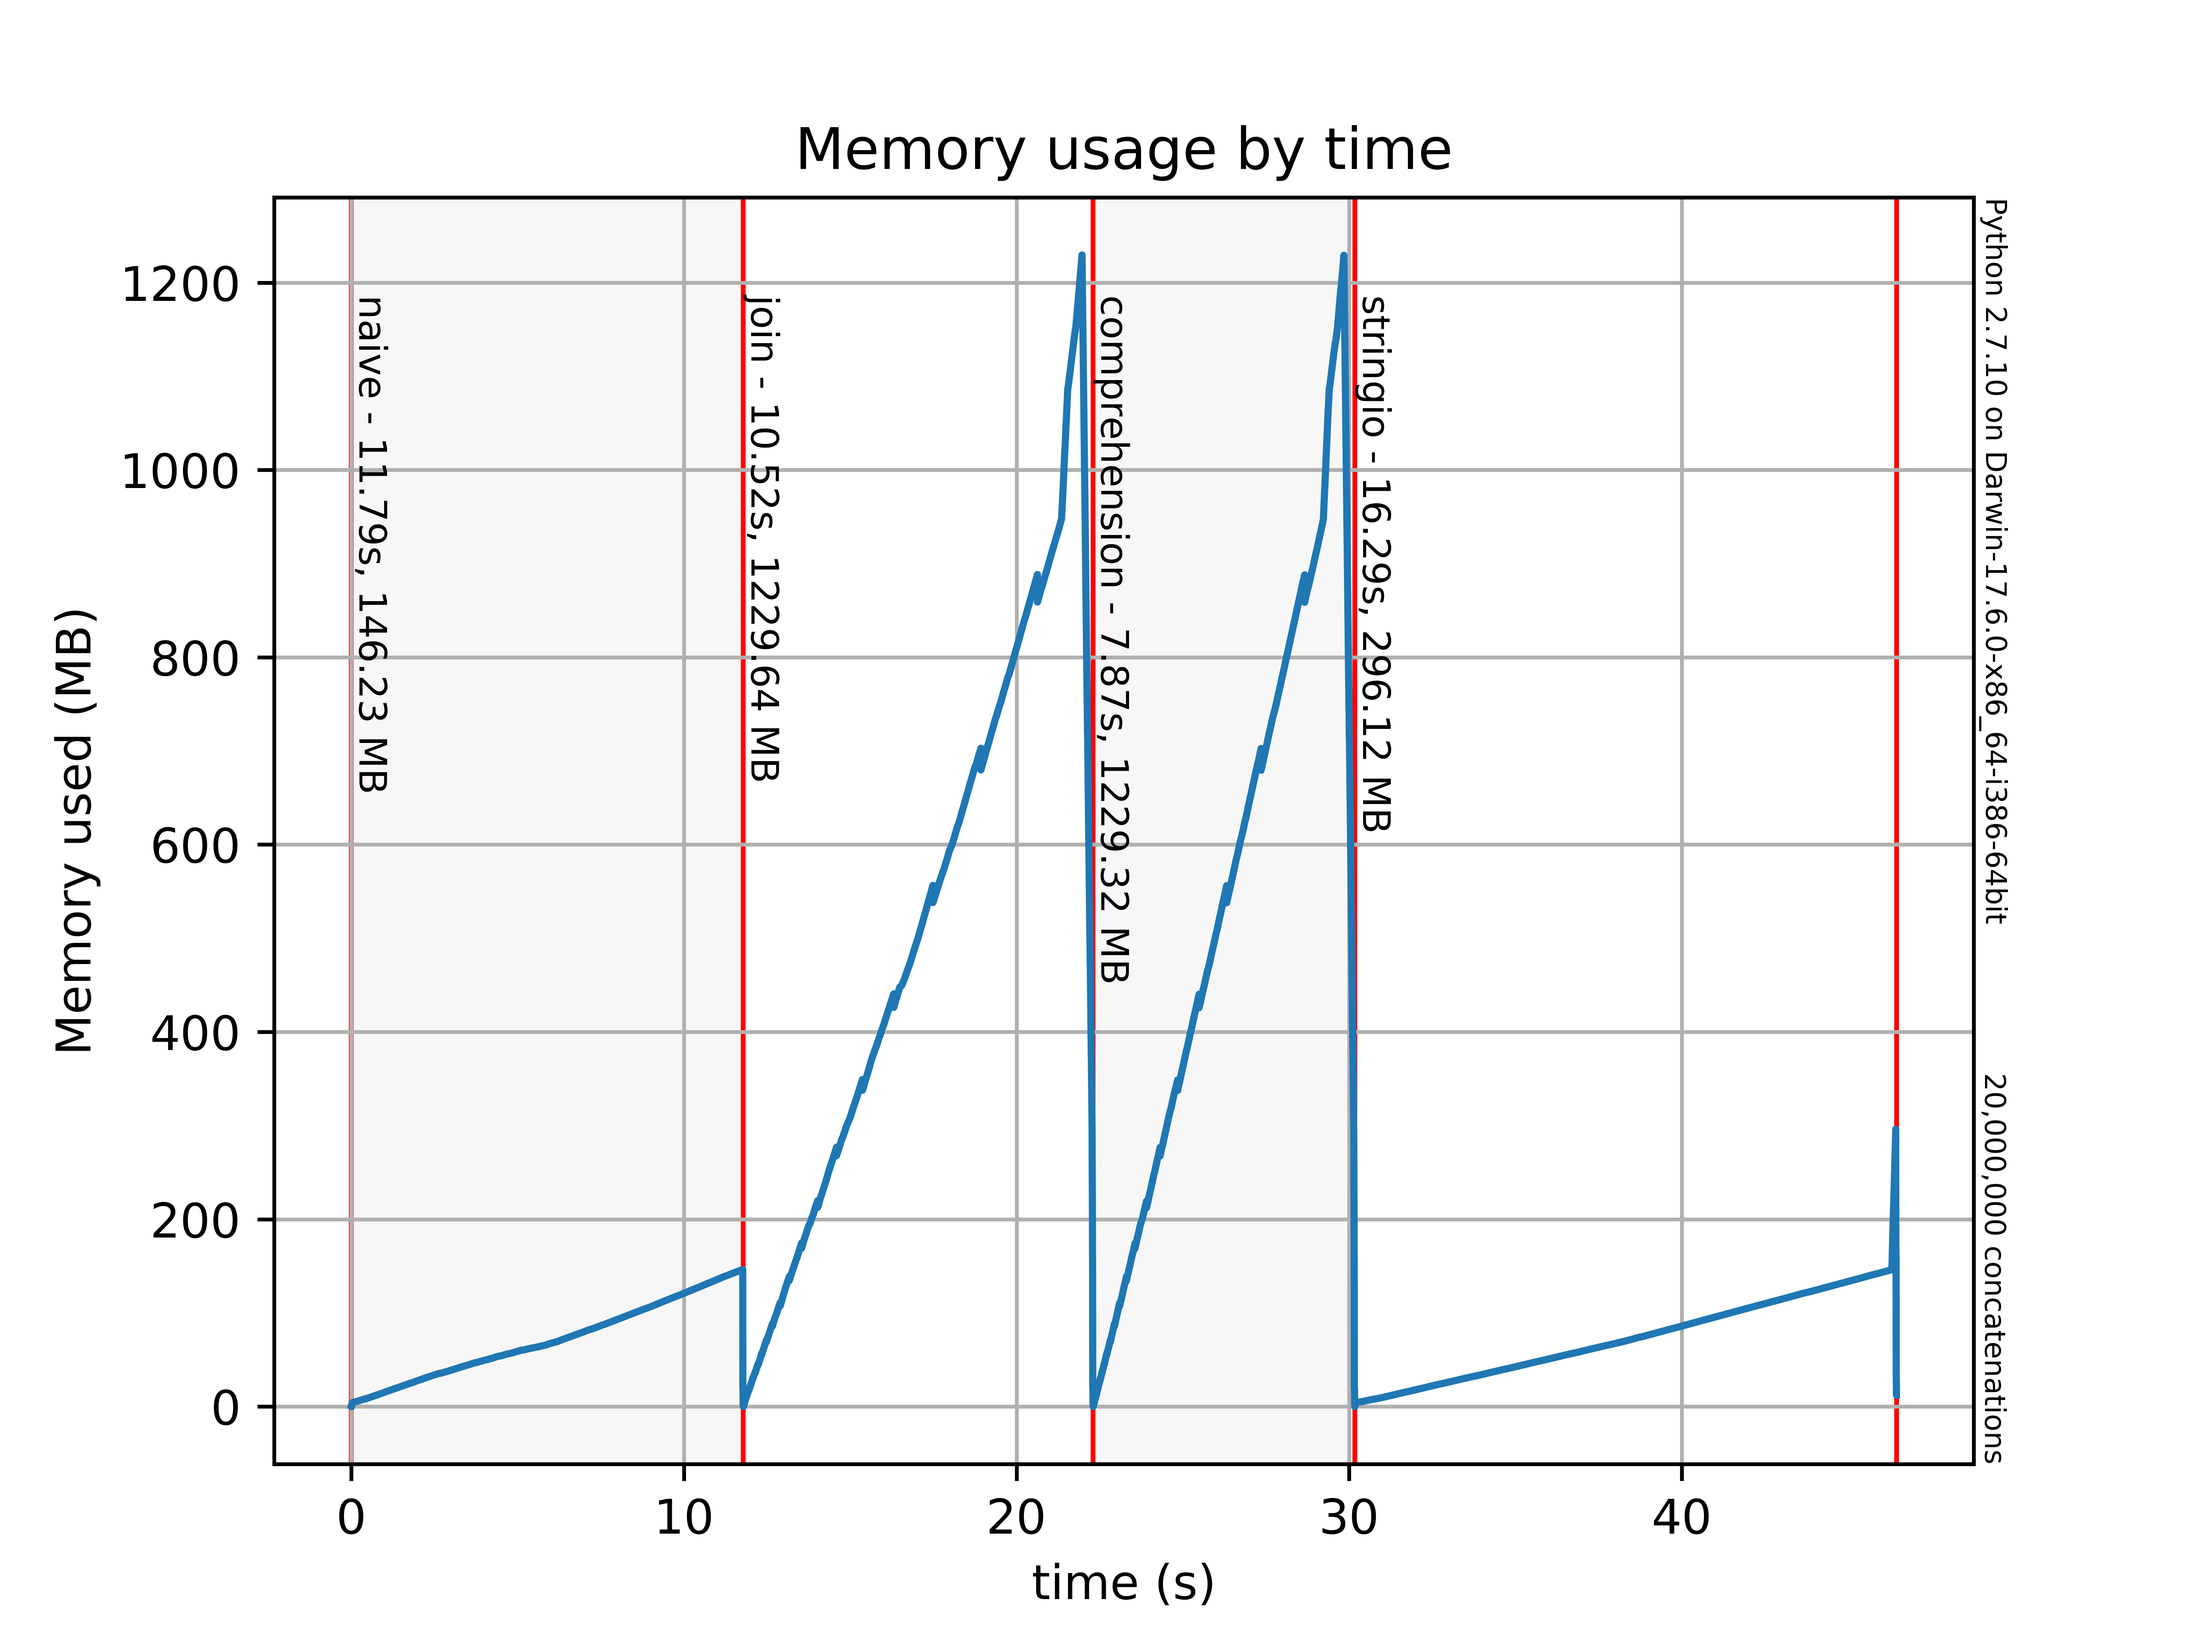
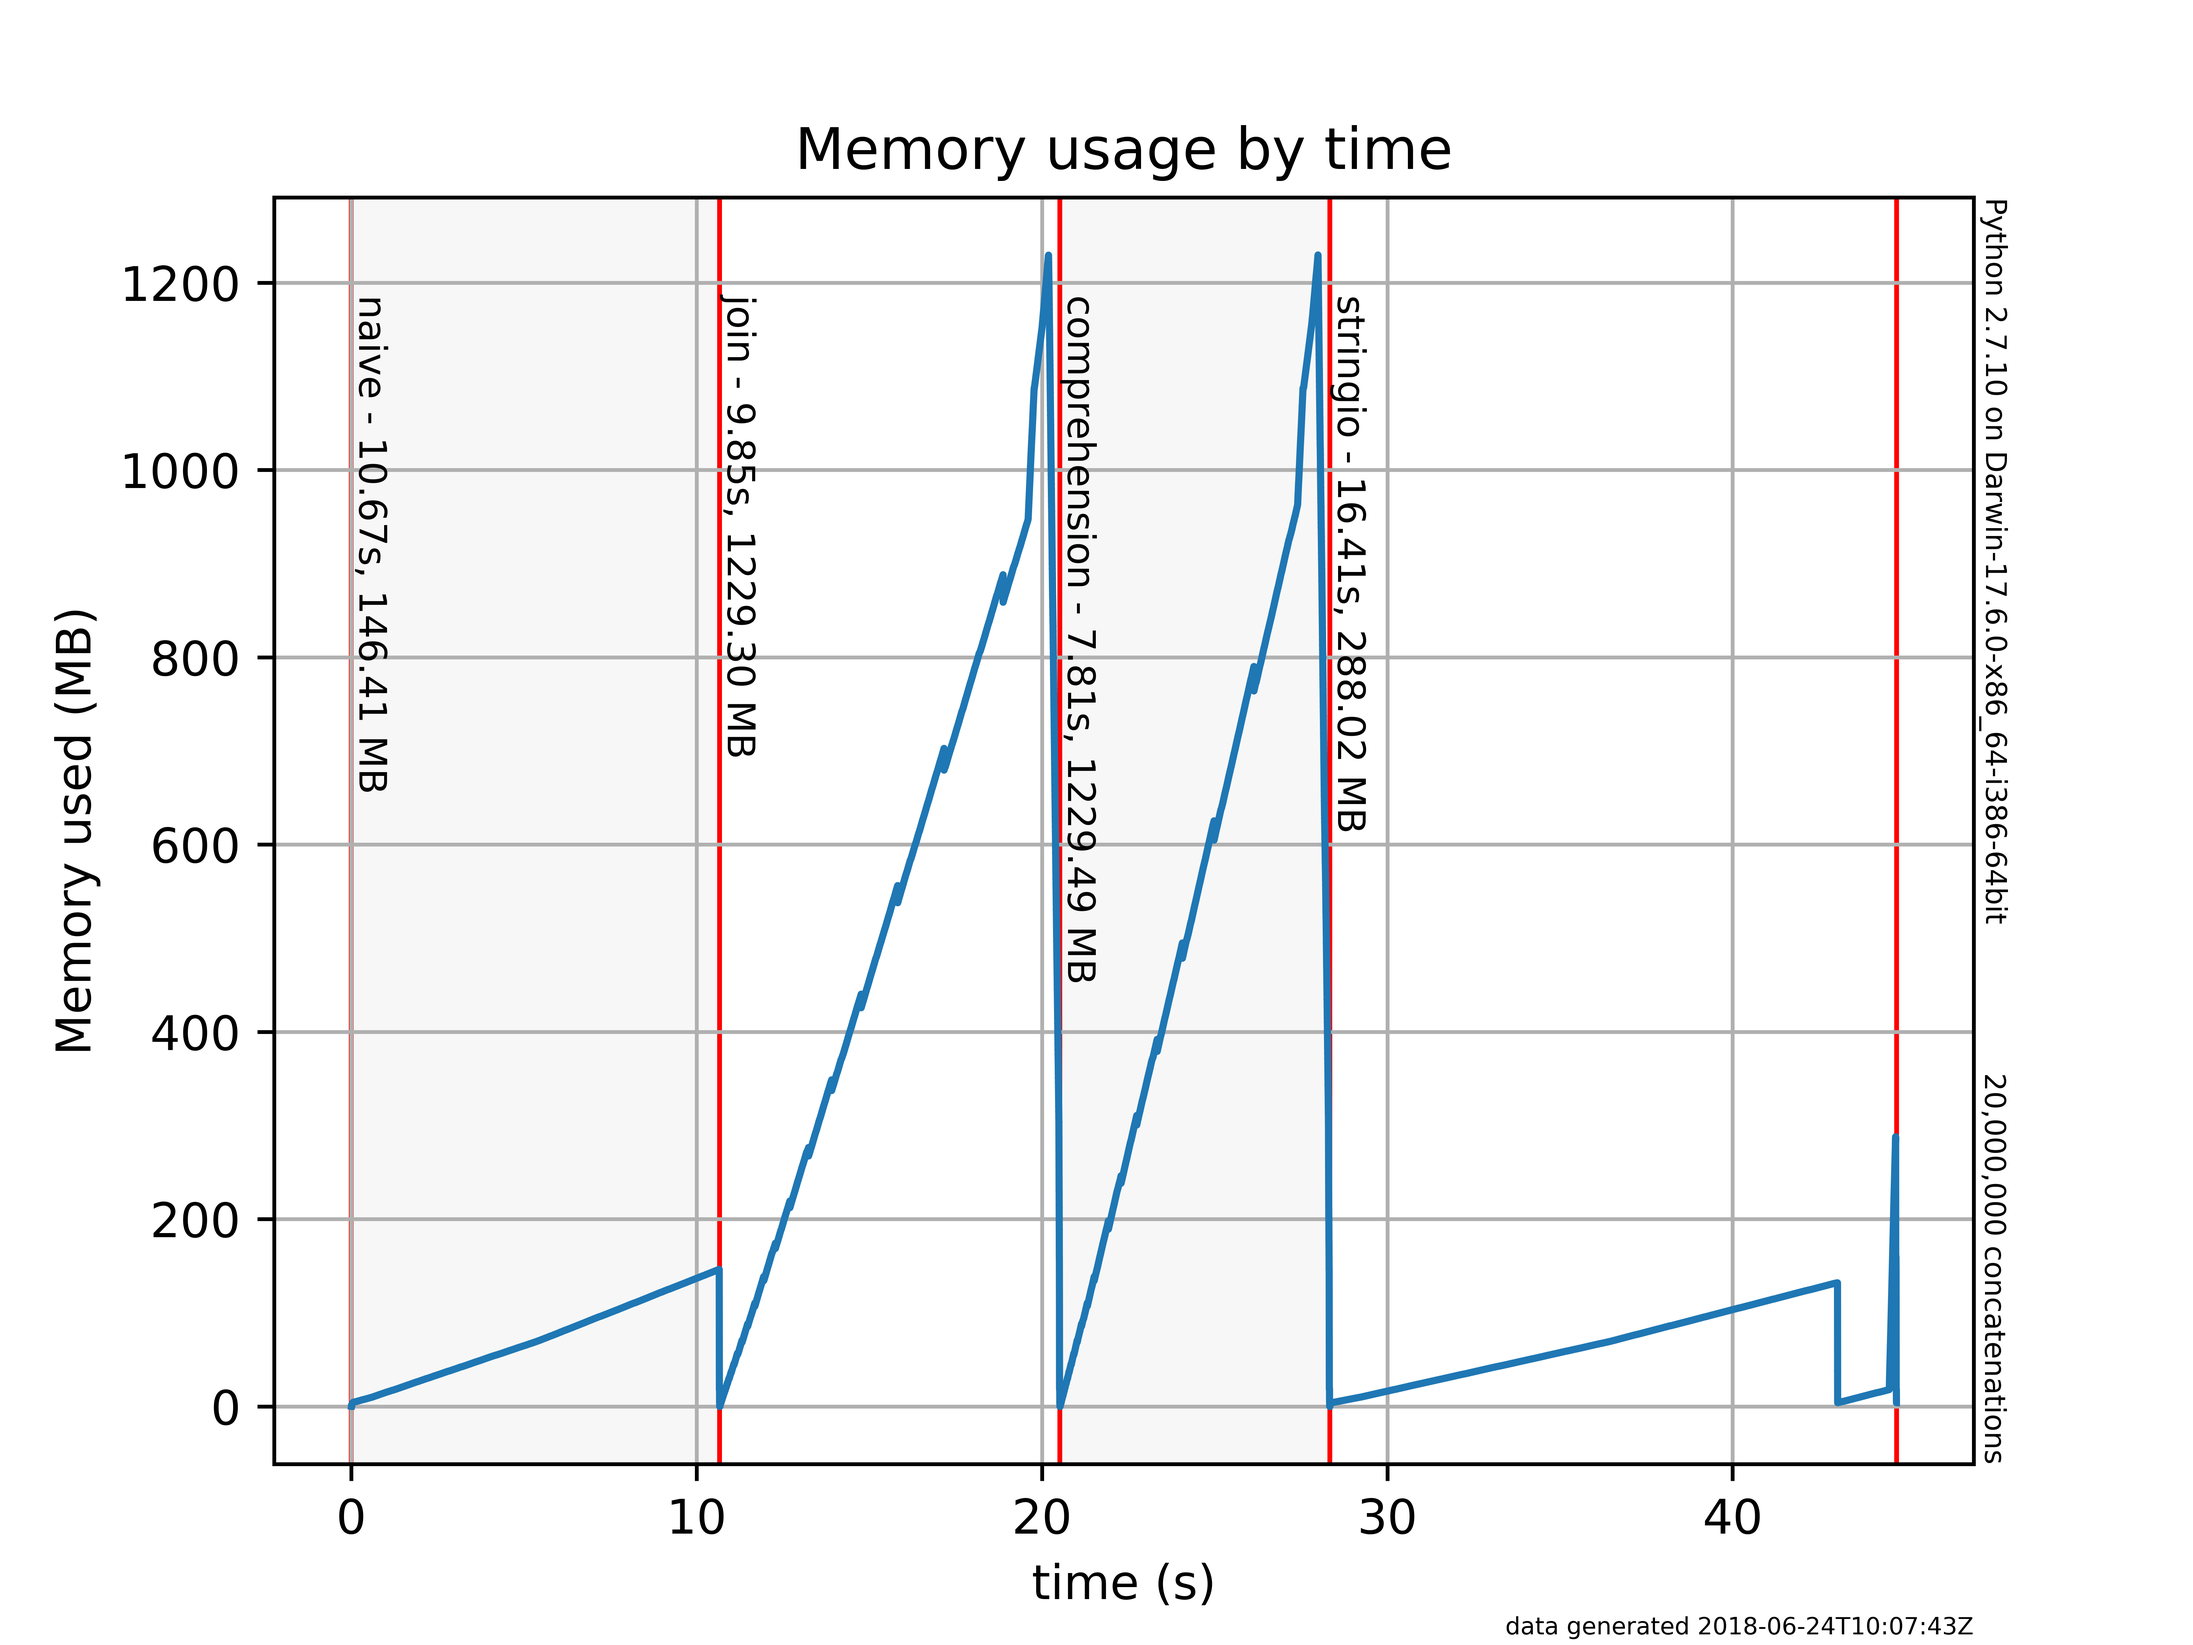
Added date+time of data file modification

diff --git a/plot.py b/plot.py
@@ -12,6 +12,9 @@ where -h                 prints help text and stops
       <input_file>       the memprof data file to plot
 """
 
+import time
+import os.path
+import datetime
 import matplotlib
 import matplotlib.pyplot as plt
 import matplotlib.patches as patches
@@ -26,7 +29,7 @@ Megabyte = (1024*1024, 'MB')
 DefaultOutputFile = 'test.png'
 
 
-def plot_graph(t, s, anno, unit_name, output_file, quiet, p_info):
+def plot_graph(t, s, anno, unit_name, output_file, quiet, p_info, dt):
     """
     Plot a graph.
 
@@ -36,6 +39,7 @@ def plot_graph(t, s, anno, unit_name, output_file, quiet, p_info):
     unit_name  string holding units
     quiet      True if we *don't* display graph on screen
     p_info     optional platform description string
+    dt         datetime string of data last modification
     """
 
     max_t = max(t)
@@ -73,6 +77,13 @@ def plot_graph(t, s, anno, unit_name, output_file, quiet, p_info):
                     xytext=(1.003, 1.00), textcoords='axes fraction',
                     horizontalalignment='left', verticalalignment='top')
 
+    # put a 'date/time modified' string on the graph
+    matplotlib.rc('font', **{'size': 5})  # set font size smaller
+    ax.annotate(f'data generated {dt}', xy=(0, 0),
+                xycoords='data', #rotation=270,
+                xytext=(1.00, -0.12), textcoords='axes fraction',
+                horizontalalignment='right', verticalalignment='top')
+
     # save graph and show, if required
     fig.savefig(output_file, dpi=1000)
     if not quiet:
@@ -92,6 +103,11 @@ def plot(input_file, output_file, p_info=None, quiet=False, unit=Megabyte):
 
     # break out the unit name and multiplier
     (unit_mult, unit_name) = unit
+
+    # get date/time of last data modification
+    data_time = os.path.getmtime(input_file)
+    gm_struct = time.gmtime(data_time)
+    datetime_zulu = time.strftime('%Y-%m-%dT%H:%M:%SZ', gm_struct)
 
     # read data from file
     # format: 1529579605.214047|name|274432
@@ -134,7 +150,7 @@ def plot(input_file, output_file, p_info=None, quiet=False, unit=Megabyte):
     delta = t_elt - last_start
     anno.append((t_elt, delta, last_name, max_mem))
 
-    plot_graph(t, s, anno, unit_name, output_file, quiet, p_info)
+    plot_graph(t, s, anno, unit_name, output_file, quiet, p_info, datetime_zulu)
 
 if __name__ == '__main__':
     import sys
